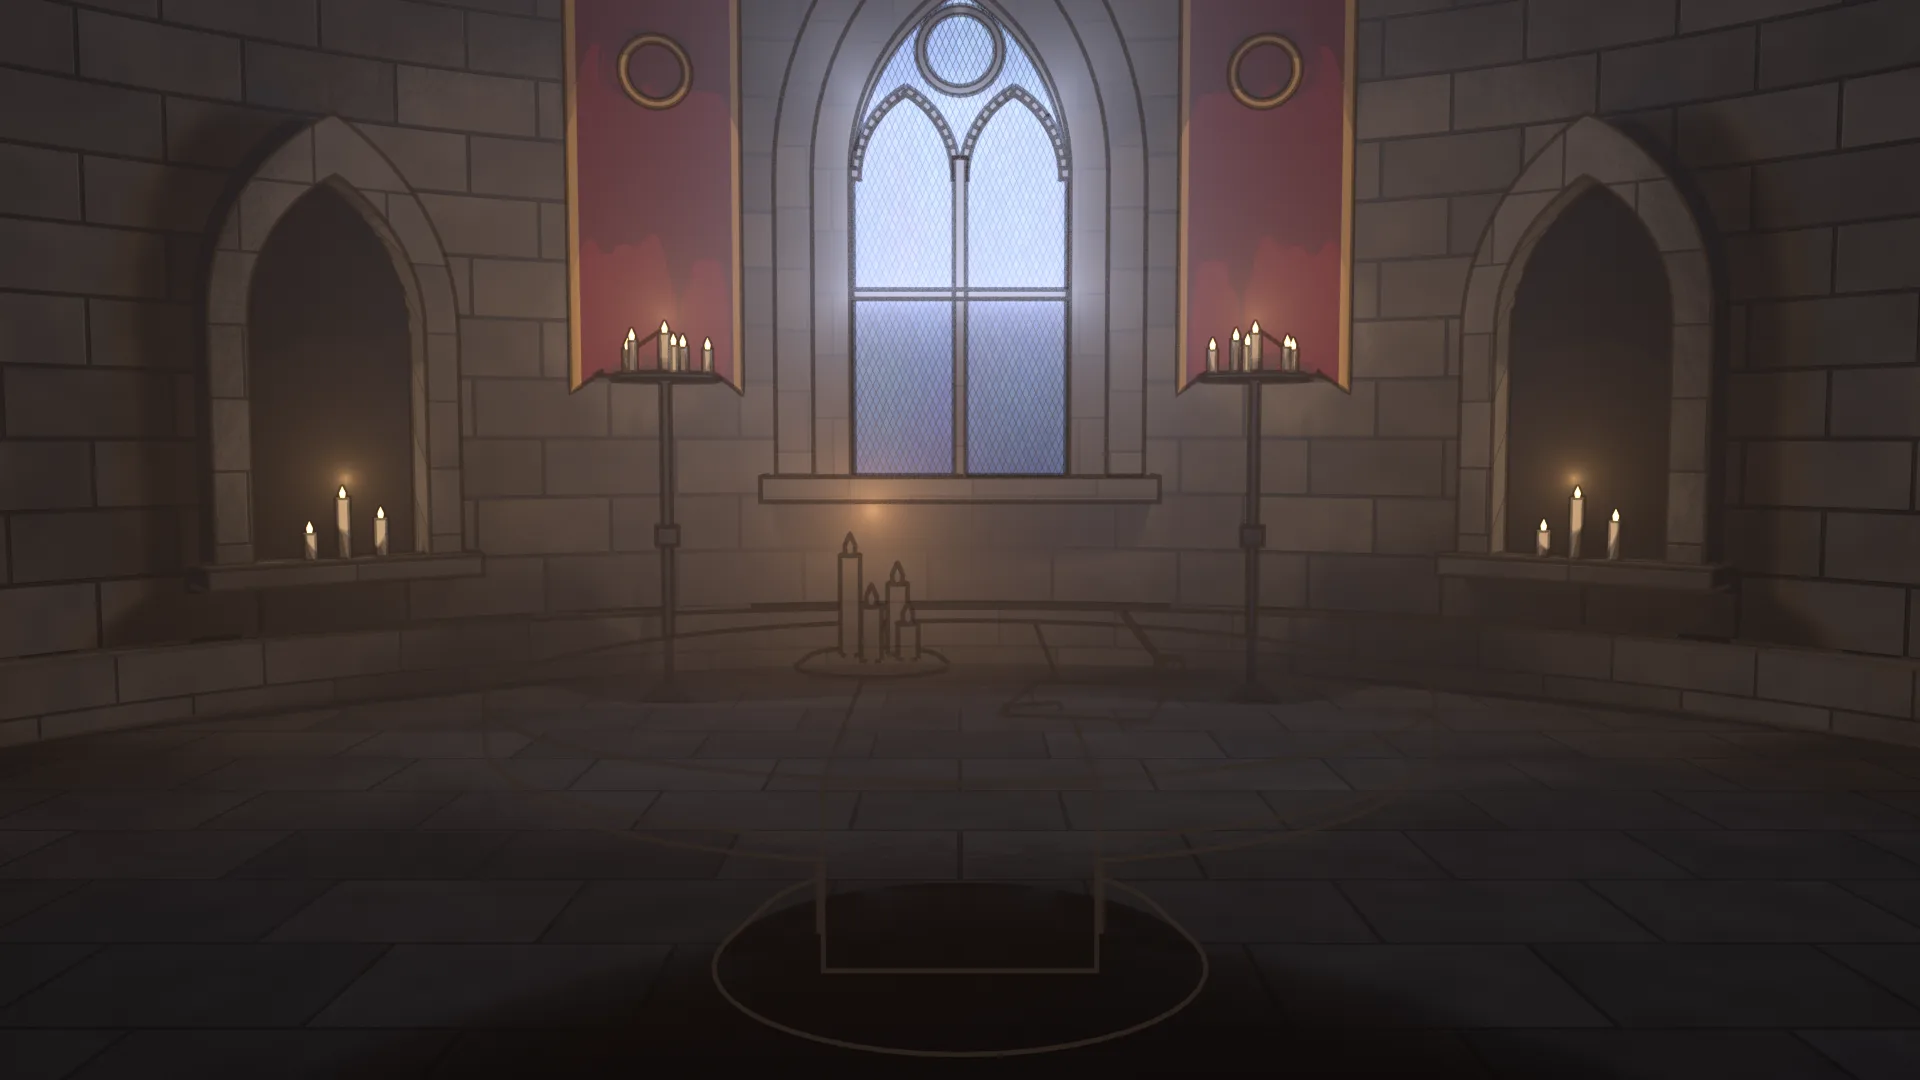
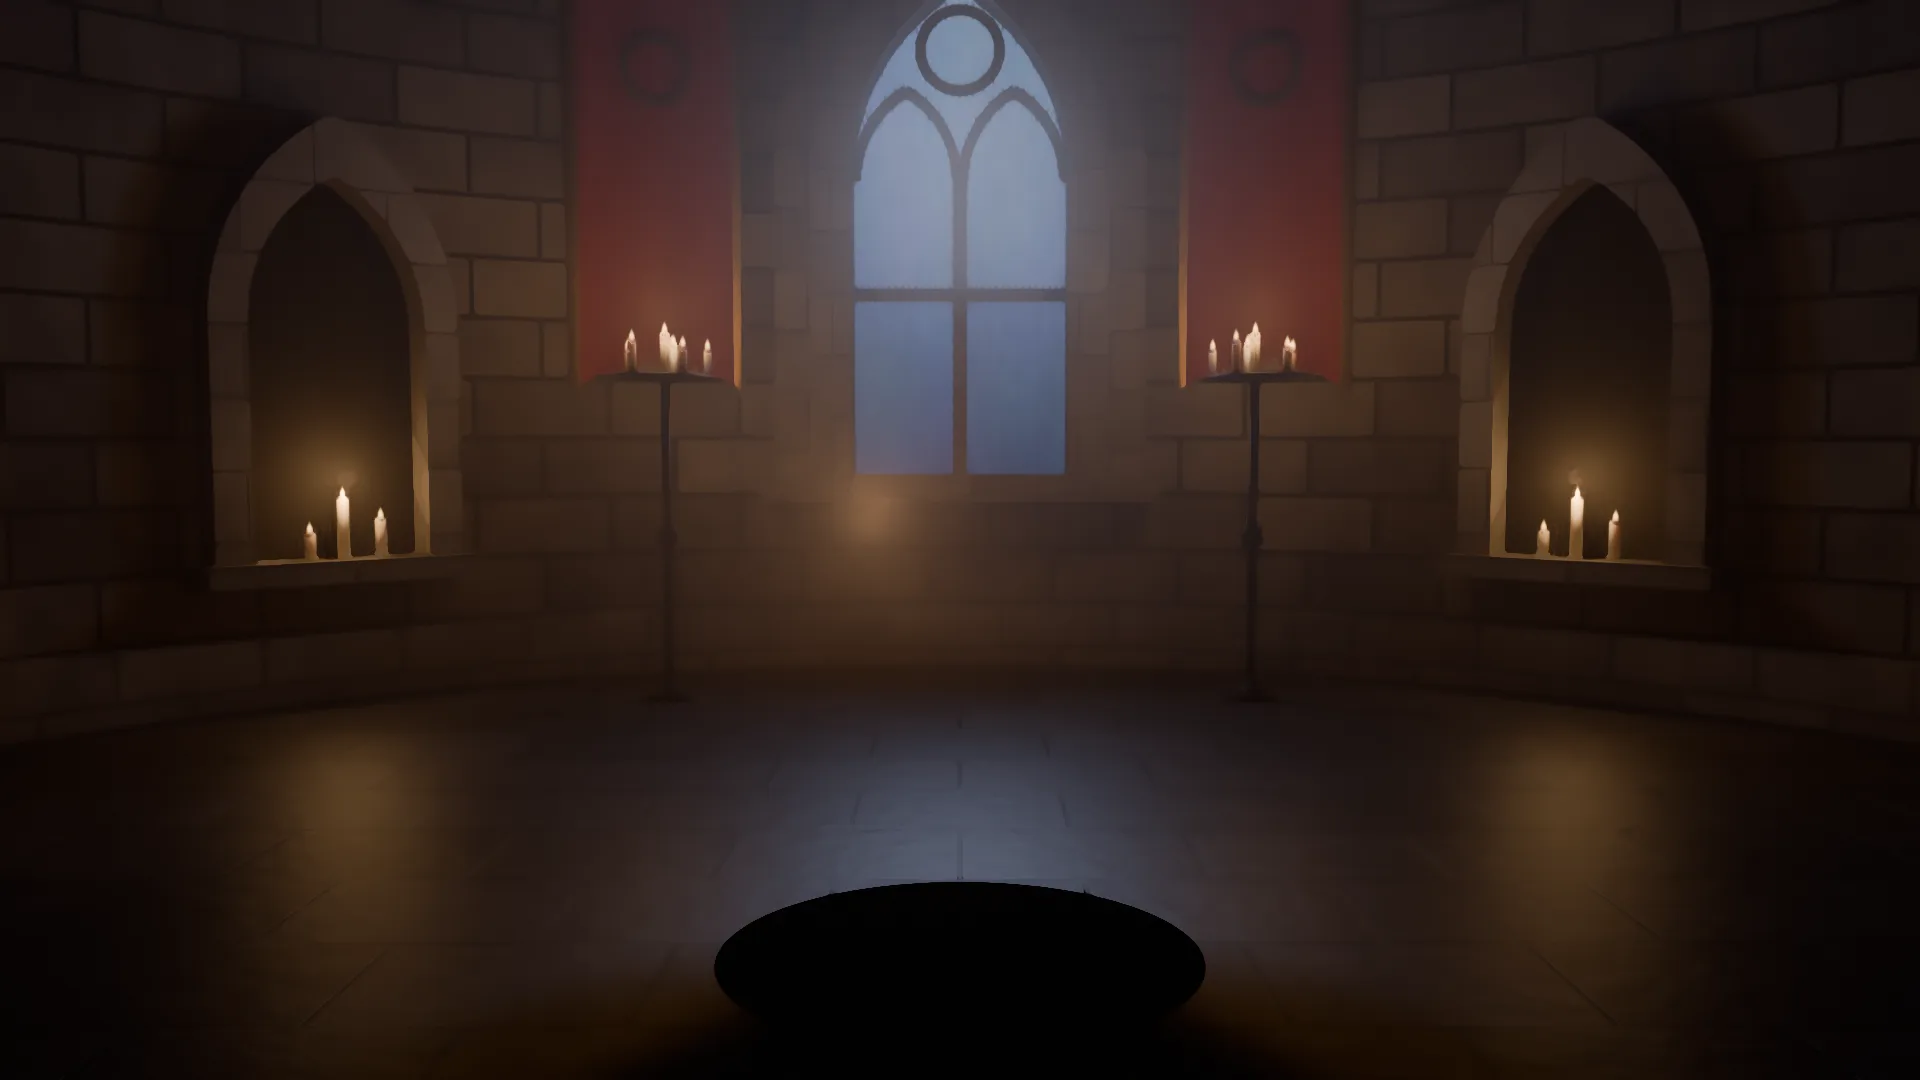
feat(traitors): the sets are painted
The user compared three looks for the conclave (photographic, cel-shaded,
painted) and chose painted: "it matched with the aesthetic".

tools/blender/traitors-paint.py replaces the cel-shading pass: the set
renders in Cycles with its real light, candle glow and haze, then the
compositor's Kuwahara filter (anisotropic, brush 11 at 1920 wide, scaled
with the render size) smooths it into brush strokes. A transparent pass's
alpha goes round the filter, not through it, so the conclave table's
cut-out edge stays clean. The cel-shading pass (traitors-toon.py) is
removed; it read as a low-poly game outdoors.

The conclave's two plates, the Round Table room and the castle front are
re-rendered painted. The conclave table is back to its dark stone.

diff --git a/tools/blender/traitors-paint.py b/tools/blender/traitors-paint.py
@@ -1,0 +1,62 @@
+"""The painted look for every Traitors set (2026-10-02).
+
+Chosen by the user over the photographic first renders ("too real") and over
+cel shading (tried 2026-10-02 and removed: it read as a low-poly game outdoors): the
+set keeps its real light, candle glow and haze, and the compositor's
+Kuwahara filter smooths it into brush strokes, like a digital matte
+painting. "It matched with the aesthetic."
+
+Every set script runs this after building its scene and before rendering:
+
+    g = {}; exec(open(".../traitors-paint.py").read(), g); g["paint"](scene)
+
+- Cycles, the AgX view (the set scripts' own light and exposure are kept)
+- Freestyle off (no ink: the brush strokes are the outline)
+- a compositor node group: Render Layers -> Kuwahara (anisotropic) -> output.
+  The brush size is given for the FULL 1920-wide frame and scaled with the
+  render percentage, so a half-size preview looks like the final.
+- the alpha of a transparent pass (the conclave's table) is carried around
+  the filter, not through it, so the cut-out edge stays clean.
+"""
+import bpy
+
+BRUSH = 11          # Kuwahara size at 1920 wide
+
+
+def paint(sc, brush=BRUSH, sharpness=0.55, eccentricity=1.0):
+    sc.render.engine = 'CYCLES'
+    sc.render.use_freestyle = False
+    sc.view_settings.view_transform = 'AgX'
+    if sc.view_settings.look == 'None': sc.view_settings.look = 'AgX - Punchy'
+    name = "trs_paint_" + sc.name
+    ng = bpy.data.node_groups.get(name) or bpy.data.node_groups.new(name, "CompositorNodeTree")
+    ng.nodes.clear()
+    if not any(i.in_out == 'OUTPUT' for i in ng.interface.items_tree):
+        ng.interface.new_socket("Image", in_out="OUTPUT", socket_type="NodeSocketColor")
+    rl = ng.nodes.new("CompositorNodeRLayers"); rl.scene = sc
+    kw = ng.nodes.new("CompositorNodeKuwahara")
+    size = max(2, round(brush * sc.render.resolution_percentage / 100 * sc.render.resolution_x / 1920))
+    for inp in kw.inputs:
+        n = inp.name.lower()
+        if n == "size": inp.default_value = size
+        elif n == "sharpness": inp.default_value = sharpness
+        elif n == "eccentricity": inp.default_value = eccentricity
+        elif n == "type":
+            try: inp.default_value = 'Anisotropic'
+            except Exception: pass
+    # the filter paints the colour; the alpha goes round it untouched
+    sep = ng.nodes.new("CompositorNodeSeparateColor")
+    setA = ng.nodes.new("CompositorNodeSetAlpha")
+    # Blender 5 moved the mode onto a menu socket; older ones keep .mode
+    if "Type" in setA.inputs: setA.inputs["Type"].default_value = "Replace Alpha"
+    else: setA.mode = 'REPLACE_ALPHA'
+    out = ng.nodes.new("NodeGroupOutput")
+    L = ng.links
+    L.new(rl.outputs["Image"], kw.inputs[0])
+    L.new(rl.outputs["Alpha"], setA.inputs["Alpha"])
+    L.new(kw.outputs[0], setA.inputs["Image"])
+    L.new(setA.outputs[0], out.inputs[0])
+    ng.nodes.remove(sep)
+    sc.compositing_node_group = ng
+    sc.render.use_compositing = True
+    return size

diff --git a/tools/blender/traitors-conclave.py b/tools/blender/traitors-conclave.py
@@ -141,7 +141,7 @@ def cloth(name, red, sheen):
 stone("trc_wall", (0.19, 0.17, 0.15), (0.11, 0.10, 0.09), (0.05, 0.045, 0.04), 0.88, 0.95, 0.42, 0.7, mortar_size=0.018)
 stone("trc_floor", (0.075, 0.068, 0.062), (0.05, 0.046, 0.042), (0.03, 0.028, 0.026), 0.45, 0.95, 0.72, 0.5)
 stone("trc_dressed", (0.20, 0.185, 0.165), (0.144, 0.13, 0.112), (0.07, 0.065, 0.06), 0.7, 0.9, 0.45, 0.3)
-stone("trc_tdress", (0.2, 0.18, 0.16), (0.15, 0.135, 0.12), (0.09, 0.08, 0.07), 0.5, 2.5, 0.6, 0.3)   # light enough to read as stone under the cel bands
+stone("trc_tdress", (0.085, 0.077, 0.07), (0.06, 0.055, 0.05), (0.07, 0.065, 0.06), 0.5, 2.5, 0.6, 0.3)
 simple("trc_iron", (0.03, 0.028, 0.026), 0.45, metal=0.9)
 simple("trc_gold", (0.6, 0.38, 0.12), 0.35, metal=1.0)
 simple("trc_wax", (0.85, 0.78, 0.62), 0.45, sss=0.5)
@@ -417,7 +417,7 @@ cam = bpy.data.objects.get("trc_cam") or bpy.data.objects.new("trc_cam", cd)
 if cam.name not in sc.collection.objects: sc.collection.objects.link(cam)
 cam.location = (0, -4.9, 1.7); cam.rotation_euler = (math.radians(86), 0, 0); sc.camera = cam
 
-sc.render.engine = 'CYCLES'; sc.cycles.samples = 192; sc.cycles.use_denoising = True
+sc.render.engine = 'CYCLES'; sc.cycles.samples = 128; sc.cycles.use_denoising = True
 sc.render.resolution_x, sc.render.resolution_y, sc.render.resolution_percentage = 1920, 1080, 100
 sc.view_settings.view_transform = 'AgX'; sc.view_settings.look = 'AgX - Punchy'; sc.view_settings.exposure = -0.4
 sc.render.image_settings.file_format = 'WEBP'; sc.render.image_settings.quality = 82
@@ -444,13 +444,13 @@ def render_plates():
     sc.render.film_transparent = False; sc.render.image_settings.color_mode = 'RGB'
 
 
-# ── the illustrated look (tools/blender/traitors-toon.py), before any render ──
-def apply_toon(exposure=None):
+# ── the painted look (tools/blender/traitors-paint.py), before any render ──
+def apply_paint():
     repo = os.path.dirname(os.path.dirname(os.path.dirname(os.path.normpath(OUT))))
     g = {}
-    exec(open(os.path.join(repo, "tools", "blender", "traitors-toon.py"), encoding="utf-8").read(), g)
-    g["toonify"](sc, exposure=exposure)
+    exec(open(os.path.join(repo, "tools", "blender", "traitors-paint.py"), encoding="utf-8").read(), g)
+    g["paint"](sc)
 
 if os.path.isdir(OUT):
-    apply_toon()
+    apply_paint()
     render_plates()

diff --git a/tools/blender/traitors-facade.py b/tools/blender/traitors-facade.py
@@ -382,14 +382,14 @@ sc.render.image_settings.file_format = 'WEBP'; sc.render.image_settings.quality 
 sc.render.film_transparent = False; sc.render.image_settings.color_mode = 'RGB'
 
 
-# ── the illustrated look (tools/blender/traitors-toon.py), before any render ──
-def apply_toon(exposure=None):
+# ── the painted look (tools/blender/traitors-paint.py), before any render ──
+def apply_paint():
     repo = os.path.dirname(os.path.dirname(os.path.dirname(os.path.normpath(OUT))))
     g = {}
-    exec(open(os.path.join(repo, "tools", "blender", "traitors-toon.py"), encoding="utf-8").read(), g)
-    g["toonify"](sc, exposure=exposure)
+    exec(open(os.path.join(repo, "tools", "blender", "traitors-paint.py"), encoding="utf-8").read(), g)
+    g["paint"](sc)
 
 if os.path.isdir(OUT) and RENDER:
-    apply_toon(exposure=-1.6)   # night: the house in shadow, the windows doing the work
+    apply_paint()
     sc.render.filepath = os.path.join(OUT, "facade.webp")
     bpy.ops.render.render(write_still=True, scene=sc.name)

diff --git a/tools/blender/traitors-roundtable.py b/tools/blender/traitors-roundtable.py
@@ -294,14 +294,14 @@ sc.render.image_settings.file_format = 'WEBP'; sc.render.image_settings.quality 
 sc.render.film_transparent = False; sc.render.image_settings.color_mode = 'RGB'
 
 
-# ── the illustrated look (tools/blender/traitors-toon.py), before any render ──
-def apply_toon(exposure=None):
+# ── the painted look (tools/blender/traitors-paint.py), before any render ──
+def apply_paint():
     repo = os.path.dirname(os.path.dirname(os.path.dirname(os.path.normpath(OUT))))
     g = {}
-    exec(open(os.path.join(repo, "tools", "blender", "traitors-toon.py"), encoding="utf-8").read(), g)
-    g["toonify"](sc, exposure=exposure)
+    exec(open(os.path.join(repo, "tools", "blender", "traitors-paint.py"), encoding="utf-8").read(), g)
+    g["paint"](sc)
 
 if os.path.isdir(OUT) and RENDER:
-    apply_toon()
+    apply_paint()
     sc.render.filepath = os.path.join(OUT, "roundtable.webp")
     bpy.ops.render.render(write_still=True, scene=sc.name)
